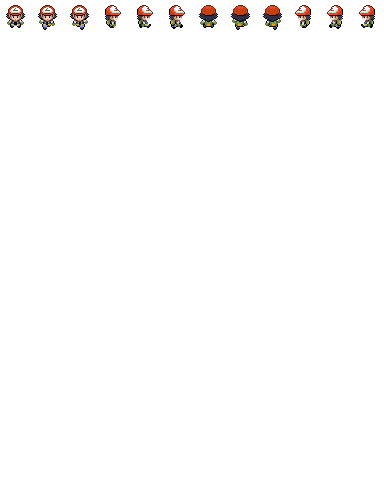
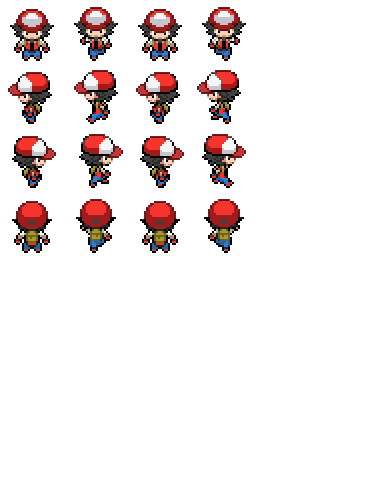
updated the character sheet, added some more config options

diff --git a/assets/scripts/functions.js b/assets/scripts/functions.js
@@ -43,7 +43,7 @@ function renderMap(tiledmap) {
                 tile
                     .addComponent('Warp')
                     .addComponent('Color')
-                    // .color('red')
+                    .color('red')
                     .attr({'load': warp.mapName});
 
                 // dump('[WARP] Adding Warp to: '+coords+' for '+warp.mapName);
@@ -61,15 +61,15 @@ function spawnPlayer(x, y) {
         .attr({
             x: (x * CONFIG.tile.width),
             y: (y * CONFIG.tile.height),
-            w: CONFIG.tile.width,
+            w: CONFIG.tile.width ,
             h: CONFIG.tile.height
         })
         .fourway(2)
-
-        .reel('walk_left', 500, 9, 0, 3)
-        .reel('walk_right', 500, 3, 0, 3)
-        .reel('walk_up', 500, 6, 0, 3)
-        .reel('walk_down', 500, 0, 0, 3)
+        .color('pink')
+        .reel('walk_left', 500, 0, 1, 4)
+        .reel('walk_right', 500, 0, 2, 4)
+        .reel('walk_up', 500, 0, 3, 4)
+        .reel('walk_down', 500, 0, 0, 4)
         .bind('EnterFrame', function(e) {
             if (this.hit('Collision')) {
                 this.pauseAnimation();

diff --git a/assets/scripts/config.js b/assets/scripts/config.js
@@ -13,6 +13,7 @@ list below will keep us upto date with places that have been setup?
 */};
 var CONFIG = {
     debug: 1,
+    toScreen: 0,
     toConsole: 1,
     fps: 60,
     player: null,
@@ -23,7 +24,7 @@ var CONFIG = {
     },
     render: {
         world: '2D, Canvas, TiledMapBuilder',
-        player: '2D, DOM, Collision, player, SpriteAnimation, Keyboard, Fourway'
+        player: '2D, DOM, Color, Collision, player, SpriteAnimation, Keyboard, Fourway'
     },
 
     tile: {

diff --git a/assets/scripts/helpers.js b/assets/scripts/helpers.js
@@ -34,9 +34,13 @@ function getGridCoords(x, y) {
 
 // Game Trace Func, also outputs to firebug console
 function dump(msg) {
+    if (CONFIG.debug === 0) {
+        return;
+    }
+
     msg = '['+new Date().format('HH:mm:ss')+'] '+msg; // prefix msg with date
     ele = jQuery('#trace');
-    if (ele && CONFIG.debug > 0) {
+    if (ele && CONFIG.toScreen) {
         var lines = ele.html();
         var lineList;
         begin = '<ul><li>';

diff --git a/assets/scripts/scenes.js b/assets/scripts/scenes.js
@@ -71,6 +71,12 @@ Crafty.scene('MAP_PALLET', function () {
             .setMapDataSource(MAPS.hero_house_floor2)
             .createWorld(renderMap);
     });
+    Crafty.scene('MAP_PROF_LAB', function () {
+        dump('Rendering Map: prof_lab');
+        Crafty.e(CONFIG.render.world)
+            .setMapDataSource(MAPS.prof_lab)
+            .createWorld(renderMap);
+    });
 
 // Routes
 Crafty.scene('MAP_ROUTE1', function () {

diff --git a/assets/scripts/main.js b/assets/scripts/main.js
@@ -27,7 +27,7 @@ window.onload = function() {
     }
 
 
-    Crafty.sprite(32, 32, 'assets/tiles/characters.png', {
+    Crafty.sprite(64, 'assets/tiles/characters.png', {
         player: [0, 0]
     });
 

diff --git a/assets/styles/debug.css b/assets/styles/debug.css
@@ -8,6 +8,9 @@
     border: 2px solid #000000;
     font-size: small;
 }
+#trace:empty {
+    display: none;
+}
 #stats{
     position: absolute;
     top:10px;
